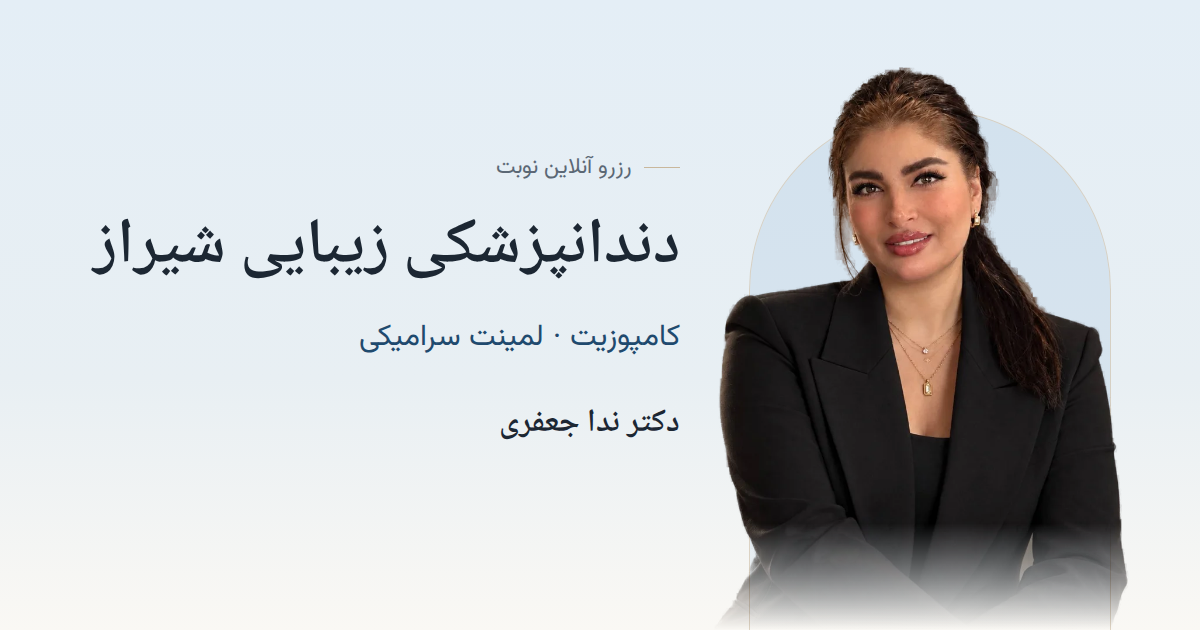
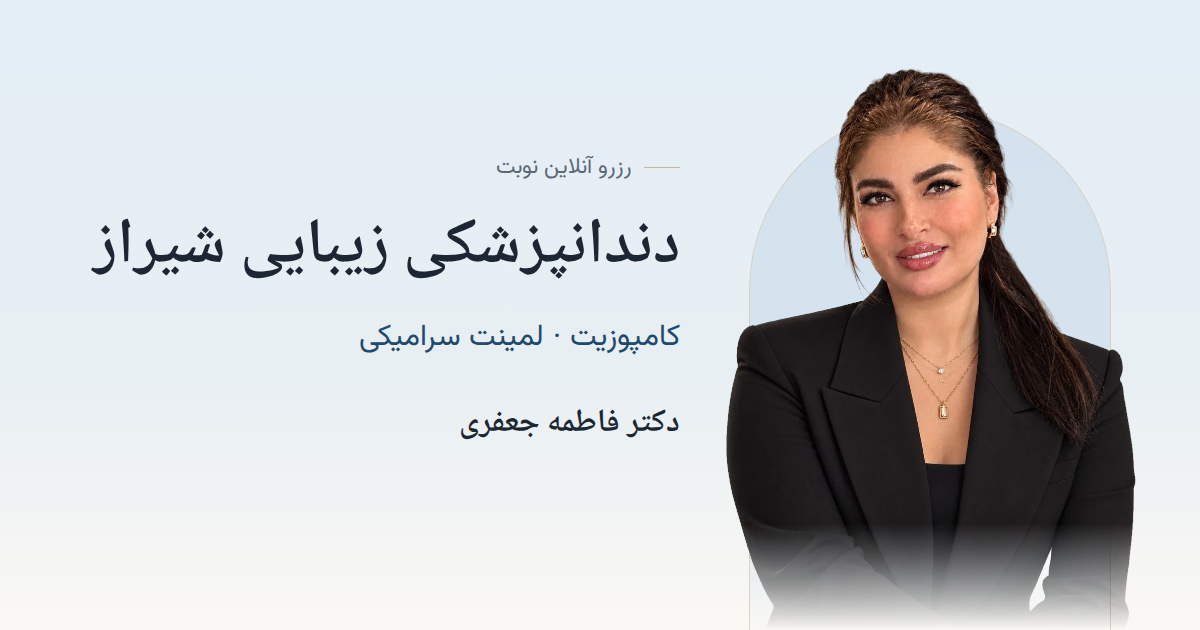
Use the doctor's correct name, Fatemeh; fix low-contrast states
- Replace «ندا» with «فاطمه» (and Nada with Fatemeh) across the site,
  content, structured data, llms.txt and docs; regenerate the share
  image with the new name and portrait. design/ keeps the old mocks.
- Closed days in the booking day strip used 45% opacity (2.7:1); they
  now use a dashed outline and muted text (5.4:1).
- Disabled/busy primary buttons faded to 70% opacity (~4.2:1 white
  text); they now turn solid grey instead.
- Raise the live-hold cap per IP to 5: Iranian mobile carriers share
  one IP across many phones.

Claude-Session: https://claude.ai/code/session_01GwB6yYd7j7s3p99rZjnAZh

diff --git a/content/services.ts b/content/services.ts
@@ -47,7 +47,7 @@ export const services: Service[] = [
     title: "کامپوزیت دندان در شیراز",
     short: "اصلاح رنگ، فرم و فاصلهی دندانها با کمترین تراش.",
     metaDescription:
-      "کامپوزیت دندان در شیراز با دکتر ندا جعفری: اصلاح رنگ، فرم و فاصلهی دندانها با کمترین تراش، در زمانی کوتاه. روند درمان، مراقبت و پرسشهای رایج.",
+      "کامپوزیت دندان در شیراز با دکتر فاطمه جعفری: اصلاح رنگ، فرم و فاصلهی دندانها با کمترین تراش، در زمانی کوتاه. روند درمان، مراقبت و پرسشهای رایج.",
     icon: "composite",
     featured: true,
     journalTag: "کامپوزیت",
@@ -129,7 +129,7 @@ export const services: Service[] = [
     title: "لمینت سرامیکی دندان در شیراز",
     short: "لبخندی یکدست با پوستههای نازک سرامیکی و ثبات رنگ بالا.",
     metaDescription:
-      "لمینت سرامیکی دندان در شیراز با دکتر ندا جعفری: لبخندی یکدست و طبیعی با پوستههای نازک سرامیکی و ثبات رنگ بالا. روند درمان، مراقبت و پرسشهای رایج.",
+      "لمینت سرامیکی دندان در شیراز با دکتر فاطمه جعفری: لبخندی یکدست و طبیعی با پوستههای نازک سرامیکی و ثبات رنگ بالا. روند درمان، مراقبت و پرسشهای رایج.",
     icon: "veneer",
     featured: true,
     journalTag: "لمینت",
@@ -209,7 +209,7 @@ export const services: Service[] = [
     title: "طراحی لبخند در شیراز",
     short: "برنامهای برای فرم، اندازه و رنگ دندانها، متناسب با چهرهی شما.",
     metaDescription:
-      "طراحی لبخند در شیراز با دکتر ندا جعفری: برنامهریزی فرم، اندازه و رنگ دندانها متناسب با چهره، با کامپوزیت، لمینت یا ترکیبی از درمانها.",
+      "طراحی لبخند در شیراز با دکتر فاطمه جعفری: برنامهریزی فرم، اندازه و رنگ دندانها متناسب با چهره، با کامپوزیت، لمینت یا ترکیبی از درمانها.",
     icon: "smile",
     caseTitles: ["طراحی لبخند"],
     intro: [
@@ -231,7 +231,7 @@ export const services: Service[] = [
     title: "بلیچینگ دندان در شیراز",
     short: "روشن کردن رنگ طبیعی دندانها زیر نظر دندانپزشک.",
     metaDescription:
-      "بلیچینگ دندان در شیراز با دکتر ندا جعفری: روشن کردن رنگ طبیعی دندانها با مواد سفیدکننده، بهصورت ایمن و زیر نظر دندانپزشک.",
+      "بلیچینگ دندان در شیراز با دکتر فاطمه جعفری: روشن کردن رنگ طبیعی دندانها با مواد سفیدکننده، بهصورت ایمن و زیر نظر دندانپزشک.",
     icon: "whitening",
     intro: [
       "بلیچینگ روشی برای روشن کردن رنگ طبیعی دندانهاست که با مواد سفیدکننده و زیر نظر دندانپزشک انجام میشود.",
@@ -252,7 +252,7 @@ export const services: Service[] = [
     title: "ایمپلنت دندان در شیراز",
     short: "جایگزینی دندان ازدسترفته با پایه و روکش.",
     metaDescription:
-      "ایمپلنت دندان در شیراز با دکتر ندا جعفری: جایگزینی دندان ازدسترفته با پایهای در استخوان فک و روکشی هماهنگ با دندانهای دیگر.",
+      "ایمپلنت دندان در شیراز با دکتر فاطمه جعفری: جایگزینی دندان ازدسترفته با پایهای در استخوان فک و روکشی هماهنگ با دندانهای دیگر.",
     icon: "implant",
     intro: [
       "ایمپلنت جایگزینی برای دندان ازدسترفته است: پایهای که بهجای ریشه در استخوان فک قرار میگیرد و روکشی که روی آن ساخته میشود.",
@@ -267,7 +267,7 @@ export const services: Service[] = [
     title: "ترمیم دندان در شیراز",
     short: "بازسازی دندان آسیبدیده با مواد همرنگ دندان.",
     metaDescription:
-      "ترمیم دندان در شیراز با دکتر ندا جعفری: بازسازی دندان پوسیده یا شکسته با مواد همرنگ دندان، برای کارایی و ظاهری طبیعی.",
+      "ترمیم دندان در شیراز با دکتر فاطمه جعفری: بازسازی دندان پوسیده یا شکسته با مواد همرنگ دندان، برای کارایی و ظاهری طبیعی.",
     icon: "restoration",
     intro: [
       "ترمیم یعنی برداشتن بخش پوسیده یا آسیبدیدهی دندان و بازسازی آن با مواد همرنگ دندان، تا دندان دوباره کارایی و ظاهری طبیعی داشته باشد.",
@@ -282,7 +282,7 @@ export const services: Service[] = [
     title: "عصبکشی دندان در شیراز",
     short: "درمان ریشه برای حفظ دندانی که عصب آن آسیب دیده است.",
     metaDescription:
-      "عصبکشی (درمان ریشه) در شیراز با دکتر ندا جعفری: درمانی برای نجات دندانی که عصب آن آسیب دیده یا عفونی شده است.",
+      "عصبکشی (درمان ریشه) در شیراز با دکتر فاطمه جعفری: درمانی برای نجات دندانی که عصب آن آسیب دیده یا عفونی شده است.",
     icon: "rootCanal",
     intro: [
       "عصبکشی یا درمان ریشه، درمانی برای نجات دندانی است که عصب آن آسیب دیده یا عفونی شده؛ کانالهای ریشه تمیز و پر میشوند و دندان حفظ میشود.",
@@ -297,7 +297,7 @@ export const services: Service[] = [
     title: "جراحی دهان و دندان در شیراز",
     short: "جراحیهای سرپایی دهان، مانند کشیدن دندانهای نهفته.",
     metaDescription:
-      "جراحیهای سرپایی دهان و دندان در شیراز با دکتر ندا جعفری، مانند کشیدن دندانهای نهفته، با بررسی دقیق پیش از درمان.",
+      "جراحیهای سرپایی دهان و دندان در شیراز با دکتر فاطمه جعفری، مانند کشیدن دندانهای نهفته، با بررسی دقیق پیش از درمان.",
     icon: "surgery",
     intro: [
       "جراحیهای سرپایی دهان، مانند کشیدن دندانهای نهفته، پس از معاینه و در صورت نیاز تصویربرداری انجام میشوند.",
@@ -312,7 +312,7 @@ export const services: Service[] = [
     title: "ارتودنسی در شیراز",
     short: "اصلاح نامرتبی دندانها و جفت شدن فکها.",
     metaDescription:
-      "ارتودنسی در شیراز با دکتر ندا جعفری: اصلاح نامرتبی دندانها و نحوهی جفت شدن فکها با نیرویی ملایم و تدریجی.",
+      "ارتودنسی در شیراز با دکتر فاطمه جعفری: اصلاح نامرتبی دندانها و نحوهی جفت شدن فکها با نیرویی ملایم و تدریجی.",
     icon: "ortho",
     intro: [
       "ارتودنسی درمانی برای مرتب کردن دندانها و اصلاح نحوهی جفت شدن فکهاست که با نیرویی ملایم و تدریجی انجام میشود.",
@@ -327,7 +327,7 @@ export const services: Service[] = [
     title: "معاینه و مشاورهی دندانپزشکی در شیراز",
     short: "بررسی وضعیت دندانها و مرور گزینههای درمان.",
     metaDescription:
-      "معاینه و مشاورهی دندانپزشکی در شیراز با دکتر ندا جعفری: بررسی دندانها و مرور گزینههای درمان. نوبت آنلاین با تأیید پیامکی.",
+      "معاینه و مشاورهی دندانپزشکی در شیراز با دکتر فاطمه جعفری: بررسی دندانها و مرور گزینههای درمان. نوبت آنلاین با تأیید پیامکی.",
     icon: "consult",
     intro: [
       "هر درمانی با یک جلسهی معاینه و مشاوره شروع میشود؛ دندانها و لثه را بررسی میکنیم و گزینههای درمان مناسب شما را با هم مرور میکنیم.",

diff --git a/app/(site)/about/page.tsx b/app/(site)/about/page.tsx
@@ -11,7 +11,7 @@ import aboutMain from "@/public/images/doctor/about-main.webp";
 
 export const metadata: Metadata = {
   title: "دربارهی دکتر",
-  description: "دکتر ندا جعفری، دندانپزشک زیبایی در شیراز با بیش از ده سال تجربه در کامپوزیت و لمینت سرامیکی. شماره نظام پزشکی ۱۶۹۴۷۳.",
+  description: "دکتر فاطمه جعفری، دندانپزشک زیبایی در شیراز با بیش از ده سال تجربه در کامپوزیت و لمینت سرامیکی. شماره نظام پزشکی ۱۶۹۴۷۳.",
   alternates: { canonical: "/about" },
 };
 
@@ -26,11 +26,11 @@ export default function AboutPage() {
   return (
     <>
       <JsonLd data={personSchema()} />
-      <PageHeader title="دربارهی دکتر ندا جعفری" crumbs={[{ name: "دربارهی دکتر", path: "/about" }]} />
+      <PageHeader title="دربارهی دکتر فاطمه جعفری" crumbs={[{ name: "دربارهی دکتر", path: "/about" }]} />
       <Container className="flex flex-col gap-12 lg:flex-row lg:items-start lg:gap-20">
         <div className="flex max-w-[680px] grow flex-col gap-6">
           <p className="text-[19px] leading-[2] text-ink">
-            دکتر ندا جعفری دندانپزشک زیبایی در شیراز است و بیش از ده سال است که با تمرکز بر کامپوزیت و لمینت سرامیکی کار
+            دکتر فاطمه جعفری دندانپزشک زیبایی در شیراز است و بیش از ده سال است که با تمرکز بر کامپوزیت و لمینت سرامیکی کار
             میکند.
           </p>
           <p className="text-[17px] leading-[2.1] text-muted-2">
@@ -57,10 +57,10 @@ export default function AboutPage() {
         </div>
         <div className="grid w-full max-w-[520px] grid-cols-[3fr_2fr] items-end gap-4 lg:w-[460px]">
           <div className="relative aspect-[420/580] overflow-hidden rounded-[50%_50%_24px_24px/36.2%_36.2%_24px_24px] bg-tint">
-            <Image src={aboutMain} alt="دکتر ندا جعفری در حال درمان یک بیمار در کلینیک" fill sizes="280px" className="object-cover object-[50%_30%]" />
+            <Image src={aboutMain} alt="دکتر فاطمه جعفری در حال درمان یک بیمار در کلینیک" fill sizes="280px" className="object-cover object-[50%_30%]" />
           </div>
           <div className="relative aspect-[250/270] overflow-hidden rounded-[20px] bg-tint">
-            <Image src={aboutDetail} alt="دکتر ندا جعفری هنگام معاینه" fill sizes="190px" className="object-cover object-[50%_20%]" />
+            <Image src={aboutDetail} alt="دکتر فاطمه جعفری هنگام معاینه" fill sizes="190px" className="object-cover object-[50%_20%]" />
           </div>
         </div>
       </Container>

diff --git a/app/layout.tsx b/app/layout.tsx
@@ -12,19 +12,19 @@ import Script from "next/script";
 import { siteUrl } from "@/lib/seo";
 import "./globals.css";
 
-const defaultTitle = "دکتر ندا جعفری | دندانپزشکی زیبایی در شیراز";
+const defaultTitle = "دکتر فاطمه جعفری | دندانپزشکی زیبایی در شیراز";
 const defaultDescription =
-  "کامپوزیت دندان، لمینت سرامیکی و طراحی لبخند در شیراز با دکتر ندا جعفری، دندانپزشک زیبایی با بیش از ۱۰ سال تجربه. امکان پرداخت اقساطی و رزرو آنلاین نوبت.";
+  "کامپوزیت دندان، لمینت سرامیکی و طراحی لبخند در شیراز با دکتر فاطمه جعفری، دندانپزشک زیبایی با بیش از ۱۰ سال تجربه. امکان پرداخت اقساطی و رزرو آنلاین نوبت.";
 
 // Root metadata is inherited by every page that does not override a key, so it
 // deliberately sets no alternates.canonical or openGraph.url: those would point
 // every page at "/". Each public page sets its own canonical (the home page sets "/").
 export const metadata: Metadata = {
   metadataBase: new URL(siteUrl),
-  applicationName: "کلینیک دکتر ندا جعفری",
+  applicationName: "کلینیک دکتر فاطمه جعفری",
   title: {
     default: defaultTitle,
-    template: "%s | دکتر ندا جعفری",
+    template: "%s | دکتر فاطمه جعفری",
   },
   description: defaultDescription,
   keywords: [
@@ -34,9 +34,9 @@ export const metadata: Metadata = {
     "طراحی لبخند شیراز",
     "بلیچینگ شیراز",
   ],
-  authors: [{ name: "دکتر ندا جعفری", url: "/about" }],
-  creator: "دکتر ندا جعفری",
-  publisher: "کلینیک دکتر ندا جعفری",
+  authors: [{ name: "دکتر فاطمه جعفری", url: "/about" }],
+  creator: "دکتر فاطمه جعفری",
+  publisher: "کلینیک دکتر فاطمه جعفری",
   category: "health",
   robots: {
     index: true,
@@ -52,7 +52,7 @@ export const metadata: Metadata = {
   openGraph: {
     type: "website",
     locale: "fa_IR",
-    siteName: "کلینیک دکتر ندا جعفری",
+    siteName: "کلینیک دکتر فاطمه جعفری",
     title: defaultTitle,
     description: defaultDescription,
     // app/opengraph-image.png (file convention) takes precedence and supplies the URL;
@@ -62,7 +62,7 @@ export const metadata: Metadata = {
         url: "/opengraph-image.png",
         width: 1200,
         height: 630,
-        alt: "کلینیک دندانپزشکی زیبایی دکتر ندا جعفری در شیراز",
+        alt: "کلینیک دندانپزشکی زیبایی دکتر فاطمه جعفری در شیراز",
       },
     ],
   },

diff --git a/app/(site)/page.tsx b/app/(site)/page.tsx
@@ -76,7 +76,7 @@ function Hero() {
           <div className="absolute start-[54px] bottom-0 h-[401px] w-[282px] rounded-t-[141px] border border-b-0 border-champagne opacity-55 lg:start-[69px] lg:h-[601px] lg:w-[442px] lg:rounded-t-[221px]" />
           <Image
             src={drHero}
-            alt="دکتر ندا جعفری"
+            alt="دکتر فاطمه جعفری"
             priority
             sizes="(min-width: 1024px) 500px, 350px"
             className="absolute start-[22px] bottom-0 h-[460px] w-auto max-w-none [mask-image:linear-gradient(180deg,#000_80%,transparent_100%)] lg:start-[40px] lg:h-[660px]"
@@ -139,7 +139,7 @@ function About() {
           <div className="absolute start-0 top-0 h-[90.6%] w-[75%] overflow-hidden rounded-[50%_50%_24px_24px/36.2%_36.2%_24px_24px] bg-tint">
             <Image
               src={aboutMain}
-              alt="دکتر ندا جعفری در حال درمان یک بیمار در کلینیک"
+              alt="دکتر فاطمه جعفری در حال درمان یک بیمار در کلینیک"
               fill
               sizes="(min-width: 1024px) 420px, 75vw"
               className="object-cover object-[50%_30%]"
@@ -152,7 +152,7 @@ function About() {
           <div className="absolute end-0 bottom-0 h-[42%] w-[44.6%] overflow-hidden rounded-[20px] border-8 border-ivory bg-tint">
             <Image
               src={aboutDetail}
-              alt="دکتر ندا جعفری هنگام معاینه"
+              alt="دکتر فاطمه جعفری هنگام معاینه"
               fill
               sizes="(min-width: 1024px) 250px, 45vw"
               className="object-cover object-[50%_20%]"
@@ -165,7 +165,7 @@ function About() {
             دقت در جزئیات، برای لبخندی طبیعی
           </h2>
           <p className="text-[17px] leading-[2.1] text-muted-2">
-            دکتر ندا جعفری بیش از ده سال است که در شیراز به دندانپزشکی زیبایی میپردازد و تمرکز کارش بر کامپوزیت و
+            دکتر فاطمه جعفری بیش از ده سال است که در شیراز به دندانپزشکی زیبایی میپردازد و تمرکز کارش بر کامپوزیت و
             لمینت سرامیکی است. هر لبخند را متناسب با چهره طراحی میکند و تا جای ممکن بافت طبیعی دندان را حفظ میکند؛
             تا نتیجه، طبیعی به نظر برسد و سالها زیبا بماند.
           </p>

diff --git a/app/booking/BookingFlow.tsx b/app/booking/BookingFlow.tsx
@@ -292,7 +292,7 @@ export function BookingFlow({ initialDays, initialHold, initialVerified, serverN
                         setDayIdx(i);
                         setErr("");
                       }}
-                      className={`flex h-[78px] w-16 shrink-0 flex-col items-center justify-center gap-1 rounded-2xl border transition-colors disabled:opacity-45 ${
+                      className={`flex h-[78px] w-16 shrink-0 flex-col items-center justify-center gap-1 rounded-2xl border transition-colors disabled:border-dashed disabled:bg-transparent disabled:text-muted ${
                         sel ? "border-primary bg-primary text-white" : "border-line bg-surface text-ink"
                       }`}
                     >
@@ -539,7 +539,7 @@ export function BookingFlow({ initialDays, initialHold, initialVerified, serverN
           onClick={onPrimary}
           disabled={pending}
           aria-busy={pending}
-          className="h-14 w-full rounded-pill bg-primary text-[17px] font-medium text-white transition-colors hover:bg-primary-hover disabled:opacity-70"
+          className="h-14 w-full rounded-pill bg-primary text-[17px] font-medium text-white transition-colors hover:bg-primary-hover disabled:cursor-not-allowed disabled:bg-muted"
         >
           {pending ? "لطفاً صبر کنید…" : expired ? "انتخاب زمان جدید" : LABELS[step]}
         </button>

diff --git a/tests/booking.test.ts b/tests/booking.test.ts
@@ -11,6 +11,7 @@ import {
 } from "@/lib/booking/service";
 import { addDays, dayKeyOf, tehranToUtc } from "@/lib/time";
 import { pool, query } from "@/lib/db";
+import { LIMITS } from "@/lib/rate-limit";
 import { captureSms, expireHold, futureSlot, ip, sid } from "./helpers";
 
 afterAll(async () => {
@@ -155,9 +156,10 @@ describe("double-booking protection", () => {
   it("caps how many slots one IP can hold at the same time", async () => {
     const addr = "10.8.8.8";
     const results = [];
-    for (let i = 0; i < 4; i++) results.push(await createHold({ sessionId: sid(), start: futureSlot(), ip: addr }));
-    expect(results.slice(0, 3).every((r) => r.ok)).toBe(true);
-    expect(results[3]).toEqual({ ok: false, error: "rate_limited" });
+    const cap = LIMITS.liveHoldsPerIp;
+    for (let i = 0; i <= cap; i++) results.push(await createHold({ sessionId: sid(), start: futureSlot(), ip: addr }));
+    expect(results.slice(0, cap).every((r) => r.ok)).toBe(true);
+    expect(results[cap]).toEqual({ ok: false, error: "rate_limited" });
     // Another client is unaffected.
     expect((await createHold({ sessionId: sid(), start: futureSlot(), ip: "10.8.8.9" })).ok).toBe(true);
   });

diff --git a/content/home.ts b/content/home.ts
@@ -7,7 +7,7 @@ export const homeFaq: Faq[] = [
     a: "هر دو لبخند را زیباتر میکنند، اما کامپوزیت با تراش کمتر و هزینهی پایینتر انجام میشود و لمینت سرامیکی ثبات رنگ بیشتری دارد. انتخاب درست به وضعیت دندانها و خواستهی شما بستگی دارد و در جلسهی مشاوره مشخص میشود.",
   },
   {
-    q: "چطور در کلینیک دکتر ندا جعفری نوبت بگیرم؟",
+    q: "چطور در کلینیک دکتر فاطمه جعفری نوبت بگیرم؟",
     a: "از صفحهی رزرو نوبت، روز و ساعت دلخواه را انتخاب کنید و شمارهی موبایل خود را با کد پیامکی تأیید کنید. اگر زمان آزاد باشد، نوبت شما بلافاصله ثبت و پیامک تأیید ارسال میشود.",
   },
   {

diff --git a/app/(site)/services/page.tsx b/app/(site)/services/page.tsx
@@ -8,7 +8,7 @@ import { services } from "@/content/services";
 
 export const metadata: Metadata = {
   title: "خدمات کلینیک",
-  description: "خدمات کلینیک دندانپزشکی زیبایی دکتر ندا جعفری در شیراز: کامپوزیت، لمینت سرامیکی، طراحی لبخند، بلیچینگ، ایمپلنت و دیگر خدمات.",
+  description: "خدمات کلینیک دندانپزشکی زیبایی دکتر فاطمه جعفری در شیراز: کامپوزیت، لمینت سرامیکی، طراحی لبخند، بلیچینگ، ایمپلنت و دیگر خدمات.",
   alternates: { canonical: "/services" },
 };
 

diff --git a/lib/rate-limit.ts b/lib/rate-limit.ts
@@ -24,8 +24,8 @@ export const LIMITS = {
   holdsPerIpPerHour: 10,
   otpSendsPerIpPerHour: 10,
   otpVerifiesPerIpPerHour: 30,
-  /** Live (unexpired) holds one IP may have at once, so a few clients can't lock the calendar. */
-  liveHoldsPerIp: 3,
+  /** Live holds one IP may have at once, so a few clients can't lock the calendar. Not lower: mobile carriers share one IP across many phones. */
+  liveHoldsPerIp: 5,
   /** Ceiling on patient OTP texts across the whole site: caps the cost of SMS-pumping abuse. */
   bookingOtpSendsPerHour: 60,
 } as const;

diff --git a/app/(site)/privacy/page.tsx b/app/(site)/privacy/page.tsx
@@ -5,7 +5,7 @@ import { PhoneLink } from "@/components/ui/PhoneLink";
 
 export const metadata: Metadata = {
   title: "حریم خصوصی",
-  description: "چه اطلاعاتی هنگام رزرو نوبت در سایت کلینیک دکتر ندا جعفری ذخیره میشود، چرا و تا چه زمانی.",
+  description: "چه اطلاعاتی هنگام رزرو نوبت در سایت کلینیک دکتر فاطمه جعفری ذخیره میشود، چرا و تا چه زمانی.",
   alternates: { canonical: "/privacy" },
 };
 

diff --git a/app/admin/login/LoginForm.tsx b/app/admin/login/LoginForm.tsx
@@ -62,7 +62,7 @@ export function LoginForm() {
       <button
         type="submit"
         disabled={pending}
-        className="h-14 rounded-pill bg-primary text-base font-medium text-white hover:bg-primary-hover disabled:opacity-70"
+        className="h-14 rounded-pill bg-primary text-base font-medium text-white hover:bg-primary-hover disabled:cursor-not-allowed disabled:bg-muted"
       >
         {pending ? "لطفاً صبر کنید…" : state.step === "phone" ? "دریافت کد ورود" : "ورود"}
       </button>

diff --git a/app/admin/login/page.tsx b/app/admin/login/page.tsx
@@ -21,7 +21,7 @@ export default async function LoginPage() {
   return (
     <main className="mx-auto flex min-h-dvh max-w-[420px] flex-col justify-center gap-6 px-5 py-10">
       <div className="flex flex-col gap-1">
-        <span className="font-display text-2xl font-semibold">دکتر ندا جعفری</span>
+        <span className="font-display text-2xl font-semibold">دکتر فاطمه جعفری</span>
         <h1 className="text-base text-muted">ورود به پنل کلینیک</h1>
       </div>
 
